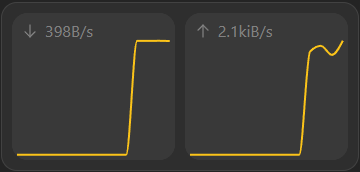
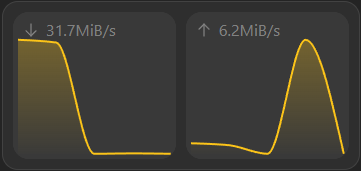
docs(system-resources-widget): add has-shadow option (#417)

diff --git a/docs/widgets/system-resources/index.ts b/docs/widgets/system-resources/index.ts
@@ -26,6 +26,14 @@ export const systemResourcesWidget: WidgetDefinition = {
         },
         defaultValue: 'Show text with icon',
       },
+      {
+        name: 'Enable chart shading',
+        description: 'Not only show a line, but also fill the area below',
+        values: {
+          type: 'boolean',
+        },
+        defaultValue: 'Yes',
+      },
     ],
   },
 };
